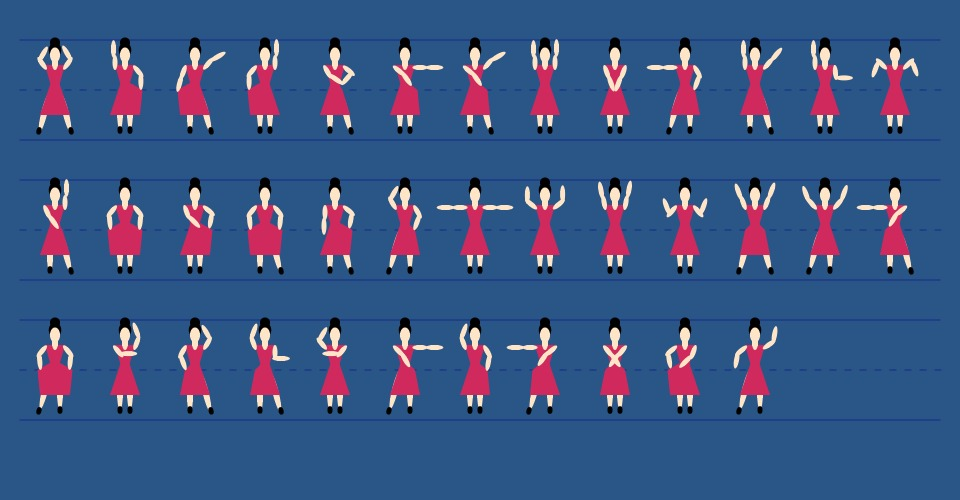
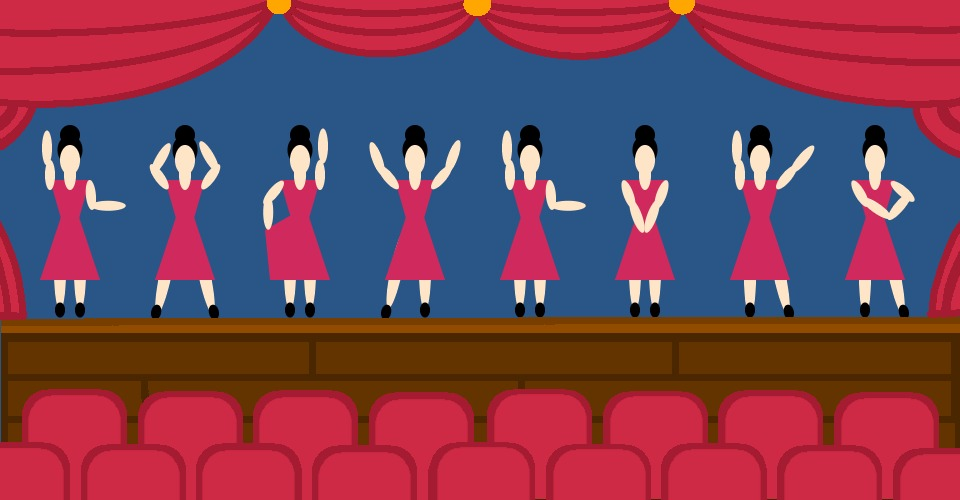
final submission

diff --git a/index.html b/index.html
@@ -10,14 +10,14 @@
     name="Letterforms by UWCC"
     content="Code driven letterforms."
   />
-  <meta name="description" content="Code driven letterforms" />
-  <meta property="og:title" content="Letterforms by UWCC" />
+  <meta name="description" content="A type face made to resemble a dancing lady" />
+  <meta property="og:title" content="LadyLike by Emma Nash" />
   <meta property="og:type" content="website" />
-  <meta property="og:url" content="https://uwcc.github.io/23.MDDN242_Parametric_Design/" />
-  <meta property="og:image" content="https://uwcc.github.io/23.MDDN242_Parametric_Design/preview.jpg" />
+  <meta property="og:url" content="https://25-mddn242.github.io/letterforms-mderdragon/" />
+  <meta property="og:image" content="https://25-mddn242.github.io/letterforms-mderdragon/preview.jpg" />
   <meta property="og:image:width" content="960" />
   <meta property="og:image:height" content="500" />
-  <meta property="og:description" content="Code driven letterforms" />
+  <meta property="og:description" content="A type face made to resemble a dancing lady" />
   <meta name="twitter:card" content="summary_large_image" />
   <meta name="twitter:creator" content="@uwcc" />
   <meta name="twitter:title" content="Letterforms by UWCC" />

diff --git a/exhibition.js b/exhibition.js
@@ -96,6 +96,8 @@ function setup () {
   main_canvas = createCanvas(canvasWidth, canvasHeight);
   main_canvas.parent('canvasContainer');
 
+  imgStage = loadImage('stage.png');
+
   let now = millis();
   lastKeyPressedTime = now;
   lastWordSwappedTime = now;
@@ -230,6 +232,8 @@ function draw () {
     var obj = computeCurrentChosenChar(i);
     drawFromDataObject(o + i*w2/8.0, o + h2/2.0 - 120, 1.0, obj)
   }
+
+  image(imgStage, 0, 0)
 }
 
 function swapExhibitLetter(n, c, frameDelay) {

diff --git a/README.md b/README.md
@@ -2,7 +2,9 @@
 [![Open in Visual Studio Code](https://classroom.github.com/assets/open-in-vscode-2e0aaae1b6195c2367325f4f02e2d04e9abb55f0b24a779b69b11b9e10269abc.svg)](https://classroom.github.com/online_ide?assignment_repo_id=18867790&assignment_repo_type=AssignmentRepo)
 ## MDDN 242 2025 Assignment 2
 
-My letters are resembled by a dancing woman. This was my very first idea for the project, inspired by cheerleading movements. The design is a simplistic, faceless figure somewhat based off of the 'dancing lady' emoji, e.g. the red dress. It sits in between readable and abstract as she is meant to move as a human would, and the human body cannot precisely replicate a font so her movement at least somewhat resembles the character.
+'LadyLike' by Emma Nash
+
+My letters are resembled by a dancing woman. This was my very first idea for the project, inspired by cheerleading routines. The design is a simplistic, faceless figure somewhat designed off of the 'dancing lady' emoji (💃💃🏻), e.g. the red dress. It sits in between readable and abstract as she is meant to move as a human would, and the human body cannot precisely replicate a font so her movement at least somewhat resembles the character. For the same reasons the characters are a mix of uppercase and lowercase.
 
 Her arms, legs, and toes are controlled by parameters that rotate and move. These parameters are duplicated and reversed for left and right limbs (marked by either an L or R). Both sides of her skirt can be 'lifted' via parameters as well for more dynamism.
 
@@ -13,3 +15,5 @@ After designing the initial alphabet with just one ellipse for each limb, I deci
 I edited some of my parameter values to fix some interpolation as sometimes the limbs would spin awkwardly or in the wrong direction. This still occurs sometimes but for the most part her movement is natural.
 
 I wanted the default character to pay homage to the original inspiring emoji, so I positioned her limbs in the same way. I also had a go at turning her skin yellow but felt this somewhat clashed with the aesthetic of the font, and I could not figure out how to smoothly transition between the colours.
+
+I wanted to make the exhibition page more visually interesting and on-theme, so I drew up a stage foreground with audience seats and curtains. I matched the colour of the curtains and seats to her dress for cohesion, and made the background a dull blue as it contrasted against and highlighted the characters.
